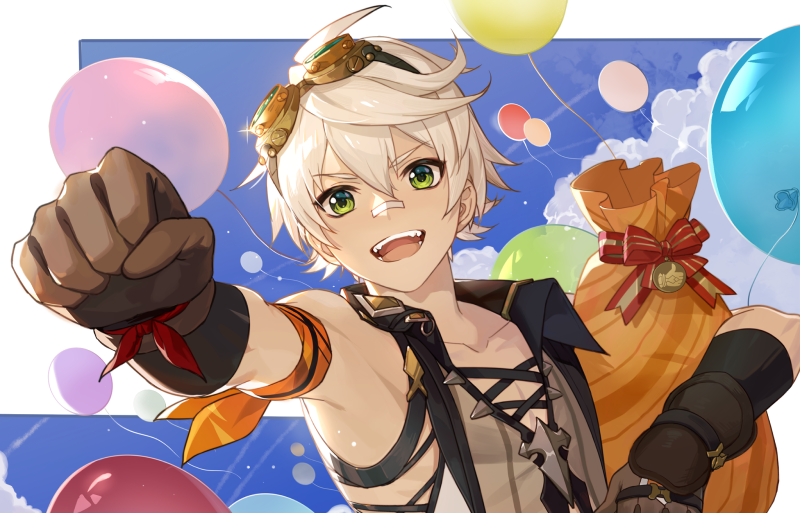
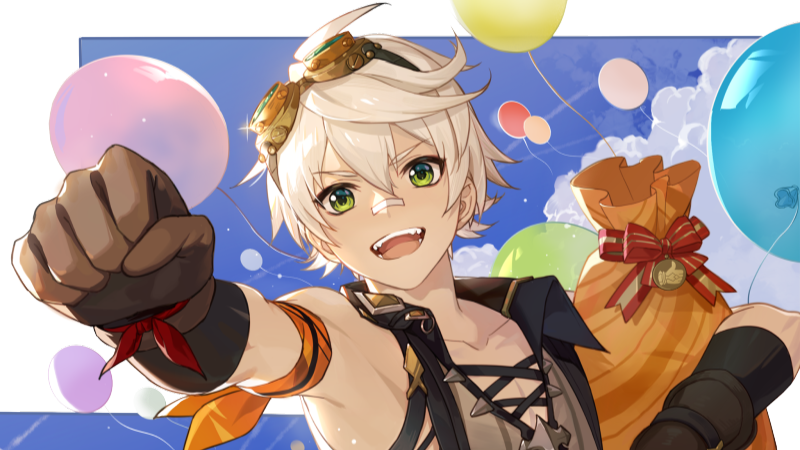
padronização de proporção das imagens na pag principal

diff --git a/index.html b/index.html
@@ -74,7 +74,7 @@
                     <h2>Nahida</h2>
                     <p></p>
                 </div>
-                <img loading="lazy" src="img/guias/nahida/Thumb_Nahida.webp">
+                <img loading="lazy" src="img/guias/nahida/Thumb_Nahida.png">
             </a>
             <a class="card eula" id="eula" href="/guia/eula">
                 <div class="card-desc">
